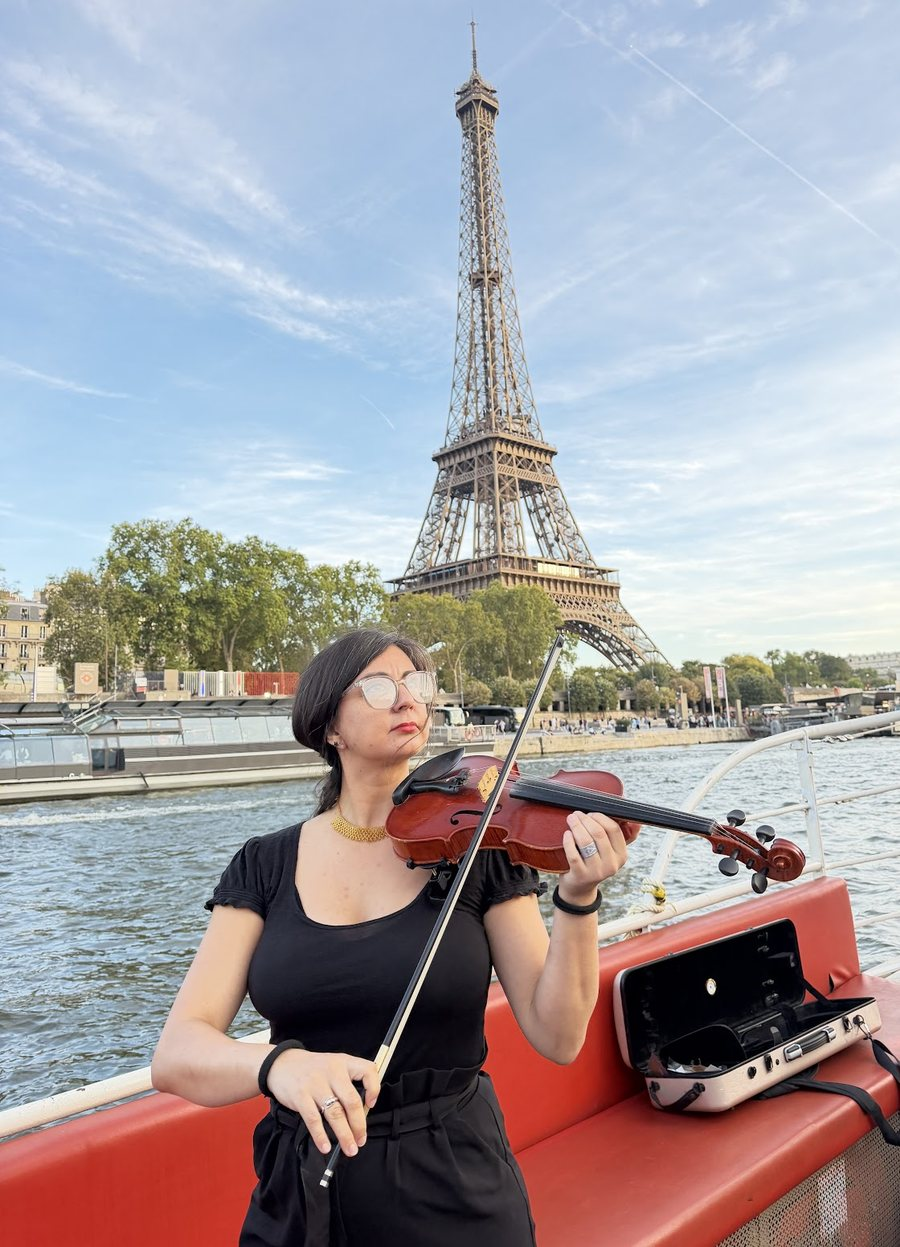
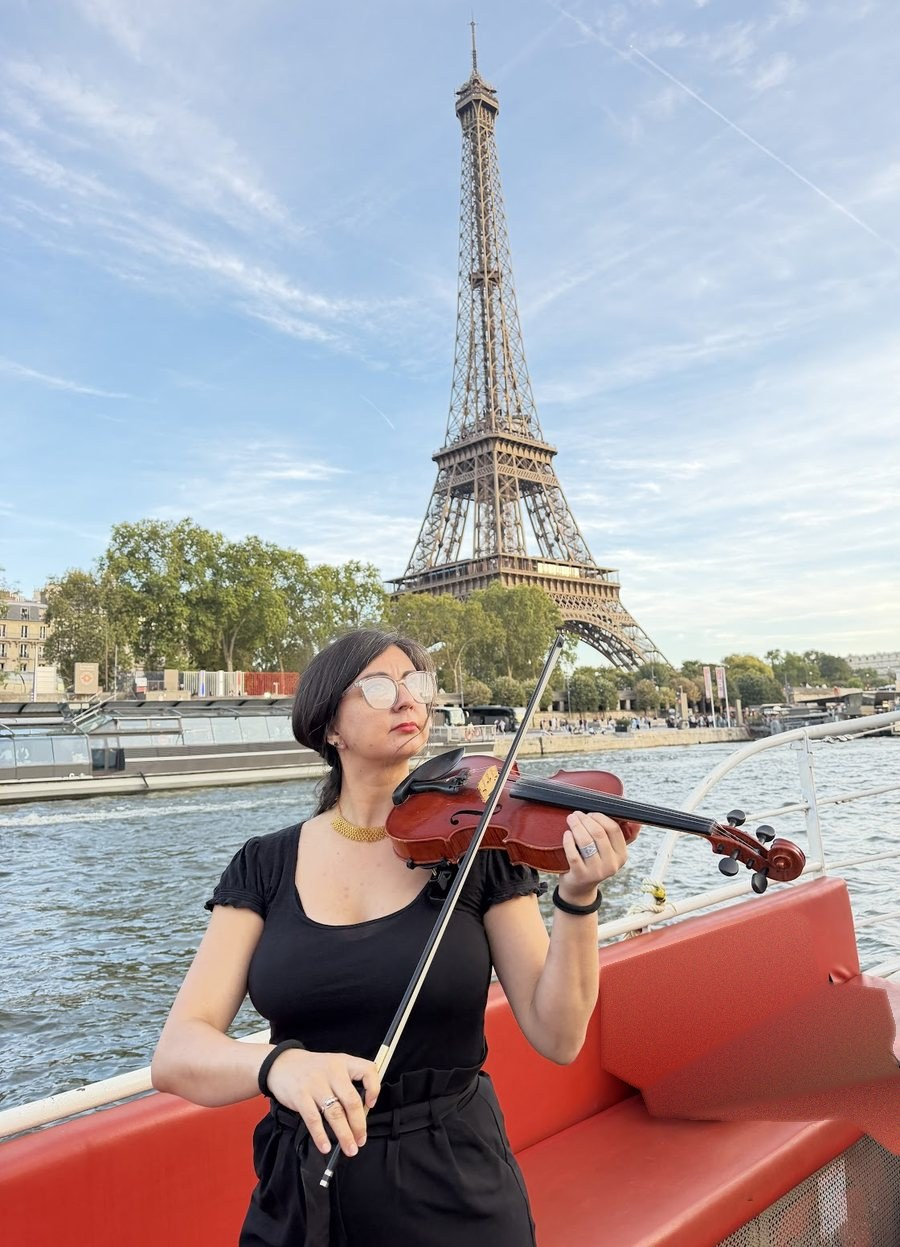
About photo: remove violin case, shorter 4:5 crop keeping hands and bow
Claude-Session: https://claude.ai/code/session_01BHFph5bGxE4qd5EW3F7R1F

Changed region(s): [[0.6533, 0.7314, 1.0, 0.9447]]

diff --git a/brussels/index.html b/brussels/index.html
@@ -377,7 +377,7 @@
           <p data-t-html="xpMore">Beyond the stage, I am an astrophysicist and a writer, and I design games. The rest is at <a href="https://sofiagallego.com/">sofiagallego.com</a>.</p>
         </div>
         <div>
-          <img class="xp-photo" src="../sofia-violin-eiffel.jpg" width="900" height="1247" loading="lazy" alt="Sofia Gallego playing the violin on the Seine, with the Eiffel Tower behind" />
+          <img class="xp-photo" src="../sofia-violin-eiffel-4x5.jpg" width="900" height="1125" loading="lazy" alt="Sofia Gallego playing the violin on the Seine, with the Eiffel Tower behind" />
         </div>
       </div>
     </div>

diff --git a/london/index.html b/london/index.html
@@ -377,7 +377,7 @@
           <p data-t-html="xpMore">Beyond the stage, I am an astrophysicist and a writer, and I design games. The rest is at <a href="https://sofiagallego.com/">sofiagallego.com</a>.</p>
         </div>
         <div>
-          <img class="xp-photo" src="../sofia-violin-eiffel.jpg" width="900" height="1247" loading="lazy" alt="Sofia Gallego playing the violin on the Seine, with the Eiffel Tower behind" />
+          <img class="xp-photo" src="../sofia-violin-eiffel-4x5.jpg" width="900" height="1125" loading="lazy" alt="Sofia Gallego playing the violin on the Seine, with the Eiffel Tower behind" />
         </div>
       </div>
     </div>

diff --git a/zurich/index.html b/zurich/index.html
@@ -377,7 +377,7 @@
           <p data-t-html="xpMore">Beyond the stage, I am an astrophysicist and a writer, and I design games. The rest is at <a href="https://sofiagallego.com/">sofiagallego.com</a>.</p>
         </div>
         <div>
-          <img class="xp-photo" src="../sofia-violin-eiffel.jpg" width="900" height="1247" loading="lazy" alt="Sofia Gallego playing the violin on the Seine, with the Eiffel Tower behind" />
+          <img class="xp-photo" src="../sofia-violin-eiffel-4x5.jpg" width="900" height="1125" loading="lazy" alt="Sofia Gallego playing the violin on the Seine, with the Eiffel Tower behind" />
         </div>
       </div>
     </div>

diff --git a/index.html b/index.html
@@ -383,7 +383,7 @@
           <p data-t-html="xpMore">Beyond the stage, I am an astrophysicist and a writer, and I design games. The rest is at <a href="https://sofiagallego.com/">sofiagallego.com</a>.</p>
         </div>
         <div>
-          <img class="xp-photo" src="sofia-violin-eiffel.jpg" width="900" height="1247" loading="lazy" alt="Sofia Gallego playing the violin on the Seine, with the Eiffel Tower behind" />
+          <img class="xp-photo" src="sofia-violin-eiffel-4x5.jpg" width="900" height="1125" loading="lazy" alt="Sofia Gallego playing the violin on the Seine, with the Eiffel Tower behind" />
         </div>
       </div>
     </div>
